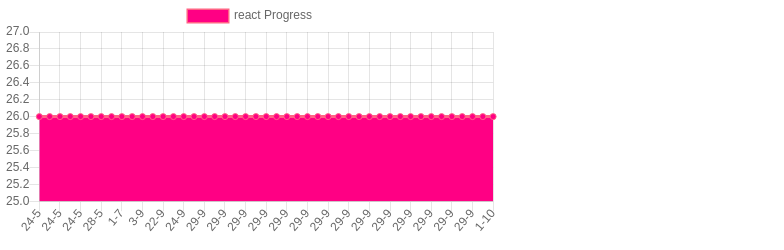
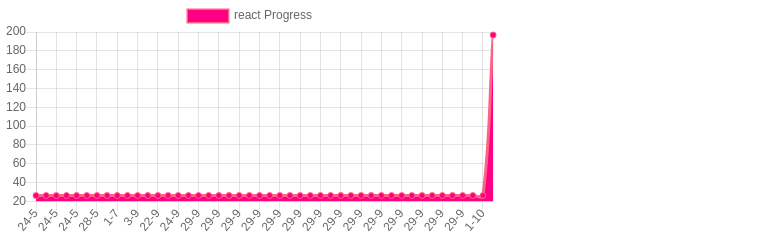
react hooks useState and useEffect

Changed region(s): [[0.0, 0.112, 0.6429, 0.924], [0.0, 0.112, 0.0612, 0.14]]

diff --git a/total.html b/total.html
@@ -9,7 +9,7 @@
         <script src="https://cdn.jsdelivr.net/npm/chart.js@2.8.0"></script>
         <script>
           var ctx = document.getElementById("total").getContext("2d");
-          const goLabelsDates = ["2021-02-27T01:37:43.112Z","2021-02-27T01:38:01.628Z","2021-03-01T13:41:18.753Z","2021-03-01T14:53:41.991Z","2021-03-01T15:08:00.851Z","2021-03-01T15:09:10.635Z","2021-03-01T15:22:55.385Z","2021-03-03T15:31:41.151Z","2021-03-05T14:02:13.446Z","2021-03-10T14:50:13.297Z","2021-03-11T01:54:03.424Z","2021-03-11T15:32:47.647Z","2021-03-11T16:01:51.191Z","2021-03-12T00:36:04.646Z","2021-03-13T00:14:58.179Z","2021-03-16T05:30:04.043Z","2021-03-17T21:17:52.181Z","2021-03-18T03:42:56.998Z","2021-03-18T03:44:29.834Z","2021-03-18T03:45:35.160Z","2021-03-18T03:45:54.668Z","2021-03-18T03:48:46.007Z","2021-03-18T05:10:54.427Z","2021-03-18T05:44:13.724Z","2021-03-18T05:56:11.032Z","2021-03-18T22:11:28.339Z","2021-03-19T11:28:55.383Z","2021-03-22T13:51:43.977Z","2021-03-23T01:52:09.452Z","2021-03-23T15:45:53.765Z","2021-03-24T01:46:02.104Z","2021-03-30T10:56:50.711Z","2021-04-01T15:03:17.764Z","2021-04-01T23:15:02.096Z","2021-04-07T19:21:55.040Z","2021-04-08T15:21:14.479Z","2021-04-09T23:17:58.037Z","2021-04-09T23:32:26.341Z","2021-04-09T23:34:42.049Z","2021-04-09T23:36:18.092Z","2021-04-10T01:45:40.218Z","2021-04-12T15:41:26.676Z","2021-04-14T02:00:41.039Z","2021-04-14T20:02:44.141Z","2021-04-14T21:14:15.821Z","2021-04-14T22:06:37.573Z","2021-04-14T22:42:14.693Z","2021-04-14T23:10:13.243Z","2021-04-14T23:22:54.824Z","2021-04-14T23:49:37.009Z","2021-04-15T02:28:51.974Z","2021-04-15T14:33:50.618Z","2021-04-15T15:09:11.104Z","2021-04-15T20:35:30.580Z","2021-04-16T00:04:33.158Z","2021-04-16T01:36:06.294Z","2021-04-16T01:53:35.992Z","2021-04-16T02:00:15.474Z","2021-04-16T16:08:40.977Z","2021-04-16T16:27:06.953Z","2021-04-16T16:59:30.526Z","2021-04-16T17:00:53.737Z","2021-04-16T23:14:36.283Z","2021-04-17T00:39:16.890Z","2021-04-17T01:11:09.986Z","2021-04-17T01:32:30.011Z","2021-04-17T01:44:22.446Z","2021-04-17T01:44:33.941Z","2021-04-17T02:35:55.774Z","2021-04-19T15:41:31.091Z","2021-04-20T15:32:32.239Z","2021-04-20T15:33:16.014Z","2021-04-20T15:36:11.438Z","2021-04-20T15:38:44.606Z","2021-04-20T15:41:50.350Z","2021-04-20T15:44:34.448Z","2021-04-20T15:46:49.295Z","2021-04-20T15:47:24.048Z","2021-04-20T15:56:22.046Z","2021-04-20T16:00:02.540Z","2021-04-20T16:01:15.511Z","2021-04-20T23:19:23.938Z","2021-04-21T00:40:54.443Z","2021-04-21T00:47:22.662Z","2021-04-21T02:01:09.006Z","2021-04-21T02:19:22.734Z","2021-04-21T15:53:36.038Z","2021-04-21T16:21:45.704Z","2021-04-21T16:26:32.790Z","2021-04-21T16:40:24.916Z","2021-04-21T16:43:40.235Z","2021-04-21T16:43:59.719Z","2021-04-21T16:44:40.304Z","2021-04-21T16:46:13.191Z","2021-04-21T16:48:41.898Z","2021-04-21T16:49:08.753Z","2021-04-21T16:50:32.397Z","2021-04-21T16:51:58.778Z","2021-04-23T00:49:32.826Z","2021-04-23T15:03:06.320Z","2021-04-23T15:04:13.039Z","2021-04-23T15:05:25.923Z","2021-04-23T15:11:04.285Z","2021-04-23T15:11:38.826Z","2021-04-23T15:12:05.618Z","2021-04-23T15:12:32.508Z","2021-04-23T15:13:17.058Z","2021-04-23T17:08:27.046Z","2021-04-23T18:02:30.357Z","2021-04-23T22:58:36.946Z","2021-04-23T23:00:26.027Z","2021-04-23T23:52:58.438Z","2021-04-24T01:12:51.525Z","2021-04-24T02:01:46.612Z","2021-04-26T12:46:47.336Z","2021-04-26T13:13:50.946Z","2021-04-26T13:16:04.473Z","2021-04-27T00:11:42.582Z","2021-04-30T03:26:37.101Z","2021-04-30T04:33:42.472Z","2021-04-30T05:15:42.646Z","2021-04-30T14:31:10.927Z","2021-05-04T01:51:49.907Z","2021-05-21T00:30:21.777Z","2021-05-24T15:07:09.579Z","2021-05-24T15:08:05.658Z","2021-05-24T15:22:20.903Z","2021-05-24T15:33:34.626Z","2021-05-24T15:46:16.101Z","2021-05-24T15:48:12.171Z","2021-05-24T15:53:54.498Z","2021-05-24T15:56:18.488Z","2021-05-28T22:50:32.914Z","2021-06-02T17:58:30.866Z","2021-07-01T05:04:25.826Z","2021-07-01T05:05:33.079Z","2021-09-03T16:56:54.023Z","2021-09-23T00:10:19.737Z","2021-09-23T00:54:30.987Z","2021-09-25T00:13:33.106Z","2021-09-25T00:56:09.874Z","2021-09-29T20:37:10.460Z","2021-09-29T20:39:45.107Z","2021-09-29T20:45:08.406Z","2021-09-29T20:45:42.995Z","2021-09-29T20:51:54.166Z","2021-09-29T21:04:45.487Z","2021-09-29T21:22:49.580Z","2021-09-29T21:23:34.860Z","2021-09-29T21:24:52.804Z","2021-09-29T21:25:12.938Z","2021-09-29T21:31:41.466Z","2021-09-29T21:32:02.856Z","2021-09-29T21:32:15.096Z","2021-09-29T21:37:01.273Z","2021-09-29T21:39:46.109Z","2021-09-29T21:40:23.862Z","2021-09-29T21:41:38.242Z","2021-09-29T21:45:36.053Z","2021-09-29T21:48:31.229Z","2021-09-29T21:49:46.414Z","2021-09-29T21:50:16.628Z","2021-09-29T21:52:23.035Z","2021-09-29T21:58:46.153Z","2021-09-29T21:59:06.075Z","2021-09-29T22:09:34.545Z","2021-09-29T22:24:59.487Z","2021-09-29T22:39:38.616Z","2021-09-29T23:07:40.178Z","2021-10-01T13:21:48.217Z",];
+          const goLabelsDates = ["2021-02-27T01:37:43.112Z","2021-02-27T01:38:01.628Z","2021-03-01T13:41:18.753Z","2021-03-01T14:53:41.991Z","2021-03-01T15:08:00.851Z","2021-03-01T15:09:10.635Z","2021-03-01T15:22:55.385Z","2021-03-03T15:31:41.151Z","2021-03-05T14:02:13.446Z","2021-03-10T14:50:13.297Z","2021-03-11T01:54:03.424Z","2021-03-11T15:32:47.647Z","2021-03-11T16:01:51.191Z","2021-03-12T00:36:04.646Z","2021-03-13T00:14:58.179Z","2021-03-16T05:30:04.043Z","2021-03-17T21:17:52.181Z","2021-03-18T03:42:56.998Z","2021-03-18T03:44:29.834Z","2021-03-18T03:45:35.160Z","2021-03-18T03:45:54.668Z","2021-03-18T03:48:46.007Z","2021-03-18T05:10:54.427Z","2021-03-18T05:44:13.724Z","2021-03-18T05:56:11.032Z","2021-03-18T22:11:28.339Z","2021-03-19T11:28:55.383Z","2021-03-22T13:51:43.977Z","2021-03-23T01:52:09.452Z","2021-03-23T15:45:53.765Z","2021-03-24T01:46:02.104Z","2021-03-30T10:56:50.711Z","2021-04-01T15:03:17.764Z","2021-04-01T23:15:02.096Z","2021-04-07T19:21:55.040Z","2021-04-08T15:21:14.479Z","2021-04-09T23:17:58.037Z","2021-04-09T23:32:26.341Z","2021-04-09T23:34:42.049Z","2021-04-09T23:36:18.092Z","2021-04-10T01:45:40.218Z","2021-04-12T15:41:26.676Z","2021-04-14T02:00:41.039Z","2021-04-14T20:02:44.141Z","2021-04-14T21:14:15.821Z","2021-04-14T22:06:37.573Z","2021-04-14T22:42:14.693Z","2021-04-14T23:10:13.243Z","2021-04-14T23:22:54.824Z","2021-04-14T23:49:37.009Z","2021-04-15T02:28:51.974Z","2021-04-15T14:33:50.618Z","2021-04-15T15:09:11.104Z","2021-04-15T20:35:30.580Z","2021-04-16T00:04:33.158Z","2021-04-16T01:36:06.294Z","2021-04-16T01:53:35.992Z","2021-04-16T02:00:15.474Z","2021-04-16T16:08:40.977Z","2021-04-16T16:27:06.953Z","2021-04-16T16:59:30.526Z","2021-04-16T17:00:53.737Z","2021-04-16T23:14:36.283Z","2021-04-17T00:39:16.890Z","2021-04-17T01:11:09.986Z","2021-04-17T01:32:30.011Z","2021-04-17T01:44:22.446Z","2021-04-17T01:44:33.941Z","2021-04-17T02:35:55.774Z","2021-04-19T15:41:31.091Z","2021-04-20T15:32:32.239Z","2021-04-20T15:33:16.014Z","2021-04-20T15:36:11.438Z","2021-04-20T15:38:44.606Z","2021-04-20T15:41:50.350Z","2021-04-20T15:44:34.448Z","2021-04-20T15:46:49.295Z","2021-04-20T15:47:24.048Z","2021-04-20T15:56:22.046Z","2021-04-20T16:00:02.540Z","2021-04-20T16:01:15.511Z","2021-04-20T23:19:23.938Z","2021-04-21T00:40:54.443Z","2021-04-21T00:47:22.662Z","2021-04-21T02:01:09.006Z","2021-04-21T02:19:22.734Z","2021-04-21T15:53:36.038Z","2021-04-21T16:21:45.704Z","2021-04-21T16:26:32.790Z","2021-04-21T16:40:24.916Z","2021-04-21T16:43:40.235Z","2021-04-21T16:43:59.719Z","2021-04-21T16:44:40.304Z","2021-04-21T16:46:13.191Z","2021-04-21T16:48:41.898Z","2021-04-21T16:49:08.753Z","2021-04-21T16:50:32.397Z","2021-04-21T16:51:58.778Z","2021-04-23T00:49:32.826Z","2021-04-23T15:03:06.320Z","2021-04-23T15:04:13.039Z","2021-04-23T15:05:25.923Z","2021-04-23T15:11:04.285Z","2021-04-23T15:11:38.826Z","2021-04-23T15:12:05.618Z","2021-04-23T15:12:32.508Z","2021-04-23T15:13:17.058Z","2021-04-23T17:08:27.046Z","2021-04-23T18:02:30.357Z","2021-04-23T22:58:36.946Z","2021-04-23T23:00:26.027Z","2021-04-23T23:52:58.438Z","2021-04-24T01:12:51.525Z","2021-04-24T02:01:46.612Z","2021-04-26T12:46:47.336Z","2021-04-26T13:13:50.946Z","2021-04-26T13:16:04.473Z","2021-04-27T00:11:42.582Z","2021-04-30T03:26:37.101Z","2021-04-30T04:33:42.472Z","2021-04-30T05:15:42.646Z","2021-04-30T14:31:10.927Z","2021-05-04T01:51:49.907Z","2021-05-21T00:30:21.777Z","2021-05-24T15:07:09.579Z","2021-05-24T15:08:05.658Z","2021-05-24T15:22:20.903Z","2021-05-24T15:33:34.626Z","2021-05-24T15:46:16.101Z","2021-05-24T15:48:12.171Z","2021-05-24T15:53:54.498Z","2021-05-24T15:56:18.488Z","2021-05-28T22:50:32.914Z","2021-06-02T17:58:30.866Z","2021-07-01T05:04:25.826Z","2021-07-01T05:05:33.079Z","2021-09-03T16:56:54.023Z","2021-09-23T00:10:19.737Z","2021-09-23T00:54:30.987Z","2021-09-25T00:13:33.106Z","2021-09-25T00:56:09.874Z","2021-09-29T20:37:10.460Z","2021-09-29T20:39:45.107Z","2021-09-29T20:45:08.406Z","2021-09-29T20:45:42.995Z","2021-09-29T20:51:54.166Z","2021-09-29T21:04:45.487Z","2021-09-29T21:22:49.580Z","2021-09-29T21:23:34.860Z","2021-09-29T21:24:52.804Z","2021-09-29T21:25:12.938Z","2021-09-29T21:31:41.466Z","2021-09-29T21:32:02.856Z","2021-09-29T21:32:15.096Z","2021-09-29T21:37:01.273Z","2021-09-29T21:39:46.109Z","2021-09-29T21:40:23.862Z","2021-09-29T21:41:38.242Z","2021-09-29T21:45:36.053Z","2021-09-29T21:48:31.229Z","2021-09-29T21:49:46.414Z","2021-09-29T21:50:16.628Z","2021-09-29T21:52:23.035Z","2021-09-29T21:58:46.153Z","2021-09-29T21:59:06.075Z","2021-09-29T22:09:34.545Z","2021-09-29T22:24:59.487Z","2021-09-29T22:39:38.616Z","2021-09-29T23:07:40.178Z","2021-10-01T13:21:48.217Z","2021-10-01T14:11:47.682Z",];
           var chart = new Chart(ctx, {
             type: 'line',
             data: {
@@ -18,7 +18,7 @@
                 label: 'total Progress',
                 backgroundColor: 'rgb(255, 0, 132)',
                 borderColor: 'rgb(255, 99, 132)',
-                data: [7975,7975,8307,8526,8526,8527,8573,9171,9358,9751,9908,10232,10231,10643,10911,11353,12576,12666,0,0,169,12835,12906,12953,12953,13141,13254,13354,13406,13417,13568,13708,13845,14886,15140,15267,15766,15777,15777,15777,16211,16345,17062,17247,17324,17464,17697,17849,17916,18002,18002,18202,18292,18515,18590,18744,18837,18876,19030,19086,19114,19143,19378,19465,19607,19714,19782,19782,19791,20220,20257,20257,20257,20257,20257,20257,20257,20257,20257,20257,20257,21179,21238,21279,21319,21319,21430,21506,21543,65995,0,44452,44452,44452,20233,20233,1629,23172,23326,23693,23693,23693,23693,23693,23693,23693,23693,23693,23693,23693,23693,23905,24023,24262,24275,24376,24376,24452,25078,25182,25238,25232,25233,25334,23696,25427,25453,25466,25491,11565,5707,5707,4421,4535,4535,3678,3678,3678,5861,5318,5422,5473,12667,12667,12667,12667,12667,12667,12667,12667,12667,12667,12667,12667,12667,12667,12667,12667,12667,12667,12658,12658,12657,12657,12657,12657,12683,12736,12779,12888,]
+                data: [7975,7975,8307,8526,8526,8527,8573,9171,9358,9751,9908,10232,10231,10643,10911,11353,12576,12666,0,0,169,12835,12906,12953,12953,13141,13254,13354,13406,13417,13568,13708,13845,14886,15140,15267,15766,15777,15777,15777,16211,16345,17062,17247,17324,17464,17697,17849,17916,18002,18002,18202,18292,18515,18590,18744,18837,18876,19030,19086,19114,19143,19378,19465,19607,19714,19782,19782,19791,20220,20257,20257,20257,20257,20257,20257,20257,20257,20257,20257,20257,21179,21238,21279,21319,21319,21430,21506,21543,65995,0,44452,44452,44452,20233,20233,1629,23172,23326,23693,23693,23693,23693,23693,23693,23693,23693,23693,23693,23693,23693,23905,24023,24262,24275,24376,24376,24452,25078,25182,25238,25232,25233,25334,23696,25427,25453,25466,25491,11565,5707,5707,4421,4535,4535,3678,3678,3678,5861,5318,5422,5473,12667,12667,12667,12667,12667,12667,12667,12667,12667,12667,12667,12667,12667,12667,12667,12667,12667,12667,12658,12658,12657,12657,12657,12657,12683,12736,12779,12888,2619,]
               }]
             },
           });

diff --git a/python.html b/python.html
@@ -9,7 +9,7 @@
         <script src="https://cdn.jsdelivr.net/npm/chart.js@2.8.0"></script>
         <script>
           var ctx = document.getElementById("python").getContext("2d");
-          const goLabelsDates = ["2021-02-27T01:37:43.111Z","2021-02-27T01:38:01.627Z","2021-03-03T15:31:41.151Z","2021-03-18T05:44:13.724Z","2021-03-18T05:56:11.032Z","2021-03-18T22:11:28.339Z","2021-03-19T11:28:55.382Z","2021-03-22T13:51:43.976Z","2021-03-23T01:52:09.451Z","2021-03-23T15:45:53.764Z","2021-03-24T01:46:02.103Z","2021-03-30T10:56:50.710Z","2021-04-01T15:03:17.763Z","2021-04-01T23:15:02.095Z","2021-04-07T19:21:55.039Z","2021-04-08T15:21:14.478Z","2021-04-09T23:17:58.036Z","2021-04-09T23:32:26.340Z","2021-04-09T23:34:42.048Z","2021-04-09T23:36:18.091Z","2021-04-10T01:45:40.217Z","2021-04-12T15:41:26.675Z","2021-04-14T02:00:41.039Z","2021-04-14T20:02:44.140Z","2021-04-14T21:14:15.820Z","2021-04-14T22:06:37.573Z","2021-04-14T22:42:14.693Z","2021-04-14T23:10:13.242Z","2021-04-14T23:22:54.823Z","2021-04-14T23:49:37.009Z","2021-04-15T02:28:51.973Z","2021-04-15T14:33:50.618Z","2021-04-15T15:09:11.102Z","2021-04-15T20:35:30.579Z","2021-04-16T00:04:33.157Z","2021-04-16T01:36:06.293Z","2021-04-16T01:53:35.991Z","2021-04-16T02:00:15.473Z","2021-04-16T16:08:40.976Z","2021-04-16T16:27:06.952Z","2021-04-16T16:59:30.524Z","2021-04-16T17:00:53.733Z","2021-04-16T23:14:36.282Z","2021-04-17T00:39:16.888Z","2021-04-17T01:11:09.985Z","2021-04-17T01:32:30.008Z","2021-04-17T01:44:22.444Z","2021-04-17T01:44:33.940Z","2021-04-17T02:35:55.773Z","2021-04-19T15:41:31.090Z","2021-04-20T15:32:32.238Z","2021-04-20T15:33:16.013Z","2021-04-20T15:36:11.438Z","2021-04-20T15:38:44.605Z","2021-04-20T15:41:50.349Z","2021-04-20T15:44:34.447Z","2021-04-20T15:46:49.294Z","2021-04-20T15:47:24.047Z","2021-04-20T15:56:22.045Z","2021-04-20T16:00:02.539Z","2021-04-20T16:01:15.511Z","2021-04-20T23:19:23.937Z","2021-04-21T00:40:54.442Z","2021-04-21T00:47:22.661Z","2021-04-21T02:01:09.005Z","2021-04-21T02:19:22.733Z","2021-04-21T15:53:36.037Z","2021-04-21T16:21:45.703Z","2021-04-21T16:26:32.789Z","2021-04-21T16:40:24.916Z","2021-04-21T16:51:58.777Z","2021-04-23T00:49:32.825Z","2021-04-23T15:03:06.327Z","2021-04-23T15:04:13.044Z","2021-04-23T15:05:25.923Z","2021-04-23T15:13:17.062Z","2021-04-23T17:08:27.045Z","2021-04-23T18:02:30.355Z","2021-04-23T22:58:36.945Z","2021-04-23T23:00:26.027Z","2021-04-23T23:52:58.438Z","2021-04-24T01:12:51.524Z","2021-04-24T02:01:46.611Z","2021-04-26T12:46:47.335Z","2021-04-26T13:13:50.945Z","2021-04-26T13:16:04.472Z","2021-04-27T00:11:42.580Z","2021-04-30T03:26:37.099Z","2021-04-30T04:33:42.472Z","2021-04-30T05:15:42.645Z","2021-04-30T14:31:10.926Z","2021-05-04T01:51:49.906Z","2021-05-21T00:30:21.772Z","2021-05-24T15:07:09.573Z","2021-05-24T15:08:05.657Z","2021-05-24T15:22:20.902Z","2021-05-24T15:33:34.625Z","2021-05-24T15:46:16.101Z","2021-09-23T00:54:30.986Z","2021-09-25T00:13:33.105Z","2021-09-25T00:56:09.873Z","2021-09-29T20:37:10.457Z","2021-09-29T20:39:45.106Z","2021-09-29T20:45:08.405Z","2021-09-29T20:45:42.993Z","2021-09-29T20:51:54.165Z","2021-09-29T21:04:45.486Z","2021-09-29T21:22:49.579Z","2021-09-29T21:23:34.859Z","2021-09-29T21:24:52.803Z","2021-09-29T21:25:12.937Z","2021-09-29T21:31:41.464Z","2021-09-29T21:32:02.854Z","2021-09-29T21:32:15.094Z","2021-09-29T21:36:24.778Z","2021-09-29T21:37:01.272Z","2021-09-29T21:39:46.106Z","2021-09-29T21:40:23.860Z","2021-09-29T21:41:38.230Z","2021-09-29T21:45:36.050Z","2021-09-29T21:48:31.221Z","2021-09-29T21:49:46.411Z","2021-09-29T21:50:16.624Z","2021-09-29T21:52:23.032Z","2021-09-29T21:58:46.150Z","2021-09-29T21:59:06.072Z","2021-09-29T22:09:34.542Z","2021-09-29T22:24:59.484Z","2021-09-29T22:39:38.613Z","2021-09-29T23:07:40.175Z","2021-10-01T13:21:48.213Z",];
+          const goLabelsDates = ["2021-02-27T01:37:43.111Z","2021-02-27T01:38:01.627Z","2021-03-03T15:31:41.151Z","2021-03-18T05:44:13.724Z","2021-03-18T05:56:11.032Z","2021-03-18T22:11:28.339Z","2021-03-19T11:28:55.382Z","2021-03-22T13:51:43.976Z","2021-03-23T01:52:09.451Z","2021-03-23T15:45:53.764Z","2021-03-24T01:46:02.103Z","2021-03-30T10:56:50.710Z","2021-04-01T15:03:17.763Z","2021-04-01T23:15:02.095Z","2021-04-07T19:21:55.039Z","2021-04-08T15:21:14.478Z","2021-04-09T23:17:58.036Z","2021-04-09T23:32:26.340Z","2021-04-09T23:34:42.048Z","2021-04-09T23:36:18.091Z","2021-04-10T01:45:40.217Z","2021-04-12T15:41:26.675Z","2021-04-14T02:00:41.039Z","2021-04-14T20:02:44.140Z","2021-04-14T21:14:15.820Z","2021-04-14T22:06:37.573Z","2021-04-14T22:42:14.693Z","2021-04-14T23:10:13.242Z","2021-04-14T23:22:54.823Z","2021-04-14T23:49:37.009Z","2021-04-15T02:28:51.973Z","2021-04-15T14:33:50.618Z","2021-04-15T15:09:11.102Z","2021-04-15T20:35:30.579Z","2021-04-16T00:04:33.157Z","2021-04-16T01:36:06.293Z","2021-04-16T01:53:35.991Z","2021-04-16T02:00:15.473Z","2021-04-16T16:08:40.976Z","2021-04-16T16:27:06.952Z","2021-04-16T16:59:30.524Z","2021-04-16T17:00:53.733Z","2021-04-16T23:14:36.282Z","2021-04-17T00:39:16.888Z","2021-04-17T01:11:09.985Z","2021-04-17T01:32:30.008Z","2021-04-17T01:44:22.444Z","2021-04-17T01:44:33.940Z","2021-04-17T02:35:55.773Z","2021-04-19T15:41:31.090Z","2021-04-20T15:32:32.238Z","2021-04-20T15:33:16.013Z","2021-04-20T15:36:11.438Z","2021-04-20T15:38:44.605Z","2021-04-20T15:41:50.349Z","2021-04-20T15:44:34.447Z","2021-04-20T15:46:49.294Z","2021-04-20T15:47:24.047Z","2021-04-20T15:56:22.045Z","2021-04-20T16:00:02.539Z","2021-04-20T16:01:15.511Z","2021-04-20T23:19:23.937Z","2021-04-21T00:40:54.442Z","2021-04-21T00:47:22.661Z","2021-04-21T02:01:09.005Z","2021-04-21T02:19:22.733Z","2021-04-21T15:53:36.037Z","2021-04-21T16:21:45.703Z","2021-04-21T16:26:32.789Z","2021-04-21T16:40:24.916Z","2021-04-21T16:51:58.777Z","2021-04-23T00:49:32.825Z","2021-04-23T15:03:06.327Z","2021-04-23T15:04:13.044Z","2021-04-23T15:05:25.923Z","2021-04-23T15:13:17.062Z","2021-04-23T17:08:27.045Z","2021-04-23T18:02:30.355Z","2021-04-23T22:58:36.945Z","2021-04-23T23:00:26.027Z","2021-04-23T23:52:58.438Z","2021-04-24T01:12:51.524Z","2021-04-24T02:01:46.611Z","2021-04-26T12:46:47.335Z","2021-04-26T13:13:50.945Z","2021-04-26T13:16:04.472Z","2021-04-27T00:11:42.580Z","2021-04-30T03:26:37.099Z","2021-04-30T04:33:42.472Z","2021-04-30T05:15:42.645Z","2021-04-30T14:31:10.926Z","2021-05-04T01:51:49.906Z","2021-05-21T00:30:21.772Z","2021-05-24T15:07:09.573Z","2021-05-24T15:08:05.657Z","2021-05-24T15:22:20.902Z","2021-05-24T15:33:34.625Z","2021-05-24T15:46:16.101Z","2021-09-23T00:54:30.986Z","2021-09-25T00:13:33.105Z","2021-09-25T00:56:09.873Z","2021-09-29T20:37:10.457Z","2021-09-29T20:39:45.106Z","2021-09-29T20:45:08.405Z","2021-09-29T20:45:42.993Z","2021-09-29T20:51:54.165Z","2021-09-29T21:04:45.486Z","2021-09-29T21:22:49.579Z","2021-09-29T21:23:34.859Z","2021-09-29T21:24:52.803Z","2021-09-29T21:25:12.937Z","2021-09-29T21:31:41.464Z","2021-09-29T21:32:02.854Z","2021-09-29T21:32:15.094Z","2021-09-29T21:36:24.778Z","2021-09-29T21:37:01.272Z","2021-09-29T21:39:46.106Z","2021-09-29T21:40:23.860Z","2021-09-29T21:41:38.230Z","2021-09-29T21:45:36.050Z","2021-09-29T21:48:31.221Z","2021-09-29T21:49:46.411Z","2021-09-29T21:50:16.624Z","2021-09-29T21:52:23.032Z","2021-09-29T21:58:46.150Z","2021-09-29T21:59:06.072Z","2021-09-29T22:09:34.542Z","2021-09-29T22:24:59.484Z","2021-09-29T22:39:38.613Z","2021-09-29T23:07:40.175Z","2021-10-01T13:21:48.213Z","2021-10-01T14:11:47.679Z",];
           var chart = new Chart(ctx, {
             type: 'line',
             data: {
@@ -18,7 +18,7 @@
                 label: 'python Progress',
                 backgroundColor: 'rgb(255, 0, 132)',
                 borderColor: 'rgb(255, 99, 132)',
-                data: [1149,1149,1501,1581,1581,1581,1581,1581,1581,1581,1581,1581,1581,1581,1581,1581,1581,1581,1581,1581,1581,1581,1581,1581,1581,1581,1581,1581,1581,1581,1581,1581,1581,1581,1581,1581,1581,1581,1581,1581,1581,1581,1581,1581,1581,1581,1581,1581,1581,1581,1581,1581,1581,1581,1581,1581,1581,1581,1581,1581,1581,1740,1799,1840,1840,1840,1840,1840,1840,1840,1840,1850,1850,1850,1850,1850,1850,1850,1850,1850,1850,1850,1911,1911,1911,2025,2025,2025,2025,2025,2025,2025,2025,2025,2025,2025,2025,2026,2183,2199,2303,2354,2354,2354,2354,2354,2354,2354,2354,2354,2354,2354,2354,2354,2354,2354,2354,2354,2354,2354,2354,2354,2354,2353,2353,2353,2353,2353,2353,2353,2422,]
+                data: [1149,1149,1501,1581,1581,1581,1581,1581,1581,1581,1581,1581,1581,1581,1581,1581,1581,1581,1581,1581,1581,1581,1581,1581,1581,1581,1581,1581,1581,1581,1581,1581,1581,1581,1581,1581,1581,1581,1581,1581,1581,1581,1581,1581,1581,1581,1581,1581,1581,1581,1581,1581,1581,1581,1581,1581,1581,1581,1581,1581,1581,1740,1799,1840,1840,1840,1840,1840,1840,1840,1840,1850,1850,1850,1850,1850,1850,1850,1850,1850,1850,1850,1911,1911,1911,2025,2025,2025,2025,2025,2025,2025,2025,2025,2025,2025,2025,2026,2183,2199,2303,2354,2354,2354,2354,2354,2354,2354,2354,2354,2354,2354,2354,2354,2354,2354,2354,2354,2354,2354,2354,2354,2354,2353,2353,2353,2353,2353,2353,2353,2422,2422,]
               }]
             },
           });

diff --git a/react.html b/react.html
@@ -9,7 +9,7 @@
         <script src="https://cdn.jsdelivr.net/npm/chart.js@2.8.0"></script>
         <script>
           var ctx = document.getElementById("react").getContext("2d");
-          const goLabelsDates = ["2021-05-24T15:22:20.900Z","2021-05-24T15:33:34.624Z","2021-05-24T15:46:16.099Z","2021-05-24T15:48:12.170Z","2021-05-24T15:53:54.498Z","2021-05-24T15:56:18.484Z","2021-05-28T22:50:32.912Z","2021-06-02T17:58:30.865Z","2021-07-01T05:04:25.823Z","2021-07-01T05:05:33.078Z","2021-09-03T16:56:54.022Z","2021-09-23T00:10:19.736Z","2021-09-23T00:54:30.986Z","2021-09-25T00:13:33.104Z","2021-09-25T00:56:09.872Z","2021-09-29T20:37:10.455Z","2021-09-29T20:39:45.106Z","2021-09-29T20:45:08.405Z","2021-09-29T20:45:42.992Z","2021-09-29T20:51:54.164Z","2021-09-29T21:04:45.485Z","2021-09-29T21:22:49.578Z","2021-09-29T21:23:34.858Z","2021-09-29T21:24:52.803Z","2021-09-29T21:25:12.936Z","2021-09-29T21:31:41.463Z","2021-09-29T21:32:02.853Z","2021-09-29T21:32:15.094Z","2021-09-29T21:36:24.777Z","2021-09-29T21:37:01.271Z","2021-09-29T21:39:46.106Z","2021-09-29T21:40:23.860Z","2021-09-29T21:41:38.229Z","2021-09-29T21:45:36.048Z","2021-09-29T21:48:31.220Z","2021-09-29T21:49:46.410Z","2021-09-29T21:50:16.623Z","2021-09-29T21:52:23.031Z","2021-09-29T21:58:46.149Z","2021-09-29T21:59:06.072Z","2021-09-29T22:09:34.541Z","2021-09-29T22:24:59.483Z","2021-09-29T22:39:38.613Z","2021-09-29T23:07:40.174Z","2021-10-01T13:21:48.213Z",];
+          const goLabelsDates = ["2021-05-24T15:22:20.900Z","2021-05-24T15:33:34.624Z","2021-05-24T15:46:16.099Z","2021-05-24T15:48:12.170Z","2021-05-24T15:53:54.498Z","2021-05-24T15:56:18.484Z","2021-05-28T22:50:32.912Z","2021-06-02T17:58:30.865Z","2021-07-01T05:04:25.823Z","2021-07-01T05:05:33.078Z","2021-09-03T16:56:54.022Z","2021-09-23T00:10:19.736Z","2021-09-23T00:54:30.986Z","2021-09-25T00:13:33.104Z","2021-09-25T00:56:09.872Z","2021-09-29T20:37:10.455Z","2021-09-29T20:39:45.106Z","2021-09-29T20:45:08.405Z","2021-09-29T20:45:42.992Z","2021-09-29T20:51:54.164Z","2021-09-29T21:04:45.485Z","2021-09-29T21:22:49.578Z","2021-09-29T21:23:34.858Z","2021-09-29T21:24:52.803Z","2021-09-29T21:25:12.936Z","2021-09-29T21:31:41.463Z","2021-09-29T21:32:02.853Z","2021-09-29T21:32:15.094Z","2021-09-29T21:36:24.777Z","2021-09-29T21:37:01.271Z","2021-09-29T21:39:46.106Z","2021-09-29T21:40:23.860Z","2021-09-29T21:41:38.229Z","2021-09-29T21:45:36.048Z","2021-09-29T21:48:31.220Z","2021-09-29T21:49:46.410Z","2021-09-29T21:50:16.623Z","2021-09-29T21:52:23.031Z","2021-09-29T21:58:46.149Z","2021-09-29T21:59:06.072Z","2021-09-29T22:09:34.541Z","2021-09-29T22:24:59.483Z","2021-09-29T22:39:38.613Z","2021-09-29T23:07:40.174Z","2021-10-01T13:21:48.213Z","2021-10-01T14:11:47.678Z",];
           var chart = new Chart(ctx, {
             type: 'line',
             data: {
@@ -18,7 +18,7 @@
                 label: 'react Progress',
                 backgroundColor: 'rgb(255, 0, 132)',
                 borderColor: 'rgb(255, 99, 132)',
-                data: [26,26,26,26,26,26,26,26,26,26,26,26,26,26,26,26,26,26,26,26,26,26,26,26,26,26,26,26,26,26,26,26,26,26,26,26,26,26,26,26,26,26,26,26,26,]
+                data: [26,26,26,26,26,26,26,26,26,26,26,26,26,26,26,26,26,26,26,26,26,26,26,26,26,26,26,26,26,26,26,26,26,26,26,26,26,26,26,26,26,26,26,26,26,197,]
               }]
             },
           });

diff --git a/config.js b/config.js
@@ -1,5 +1,5 @@
 const configLn = [
-  {
+  /* {
     ln: 'reactn-doctor',
     title: "Typescript Denti",
     subjects: [
@@ -7,7 +7,7 @@ const configLn = [
     ],
     src: ['../../react-native/reactnDoctor1/components', '../../react-native/reactnDoctor1/screens', '../../react-native/reactnDoctor1/navigation', '../../react-native/reactnDoctor1/hooks'],
     goal: 2000
-  },
+  }, */
 /*   {
     ln: 'denti-code',
     title: "JavaScript Denti",
@@ -26,14 +26,14 @@ const configLn = [
     src: ['../../react/react-shopping-cart'],
     goal: 2000
   }, */
-  {
+  /* {
     ln: 'js',
     title: "JavaScript",
     subjects: [
       "react, ", "angular, sequelize, mongoose, prisma, node js."
     ],
     goal: 7000
-  },
+  }, */
   {
     ln: 'react',
     title: "React",
@@ -74,12 +74,12 @@ const configLn = [
     subjects: [],
     goal: 500
   }, */
-   {
+   /* {
     ln: 'go',
     title: "go",
     subjects: ["structs", "loops"],
     goal: 3000
-  },
+  }, */
   {
     ln: 'python',
     title: "python",
@@ -104,18 +104,18 @@ const configLn = [
     subjects: [],
     goal: 500
   }, */
-  {
+  /* {
     ln: 'css',
     title: "css",
     subjects: [],
     goal: 500
-  },
-  {
+  }, */
+  /* {
     ln: 'flutter',
     title: "flutter",
     subjects: [],
     goal: 1000
-  },
+  }, */
 ]
 
 exports.configLn = configLn

diff --git a/Readme.md b/Readme.md
@@ -1,17 +1,12 @@
 # All count
 |Language|Goal|Lines%|%|%|%|Subjects|
 |----------|-------|-------|--------|--------|--------|--------|
-|js|10000|7194|72|![js](https://raw.githubusercontent.com/kapit4n/l-10000-dev/master/js.png)|react, , angular, sequelize, mongoose, prisma, node js.|enzyme|
-|go|10000|3214|32|![go](https://raw.githubusercontent.com/kapit4n/l-10000-dev/master/go.png)|structs, loops|consumingRESTfulAPI, data structures, go slices, queue, mux|
 |python|10000|2422|24|![python](https://raw.githubusercontent.com/kapit4n/l-10000-dev/master/python.png)|collections, |algorithms, django pdf, django tips, unit tests, yield|
-|react|1000|26|3|![react](https://raw.githubusercontent.com/kapit4n/l-10000-dev/master/react.png)|Testing, builds||
-|css|500|12|2|![css](https://raw.githubusercontent.com/kapit4n/l-10000-dev/master/css.png)||basic001, box model|
-|flutter|1000|20|2|![flutter](https://raw.githubusercontent.com/kapit4n/l-10000-dev/master/flutter.png)||stale less widget|
-|reactn-doctor|2000|0|0|![reactn-doctor](https://raw.githubusercontent.com/kapit4n/l-10000-dev/master/reactn-doctor.png)|react-native,, hooks||
-|TOTAL|12888|18.411%|
+|react|1000|197|20|![react](https://raw.githubusercontent.com/kapit4n/l-10000-dev/master/react.png)|Testing, builds|react hooks tips, components|
+|TOTAL|2619|13.095%|
 10/02(0)
 
-10/03(12888)
+10/03(2619)
 
 
   # run it
@@ -34,4 +29,4 @@
   * Angular, React, Vue
   * Spring, Play
   * Scala, Java
-  , 2021-10-01T13:21:48.217Z
+  , 2021-10-01T14:11:47.682Z
